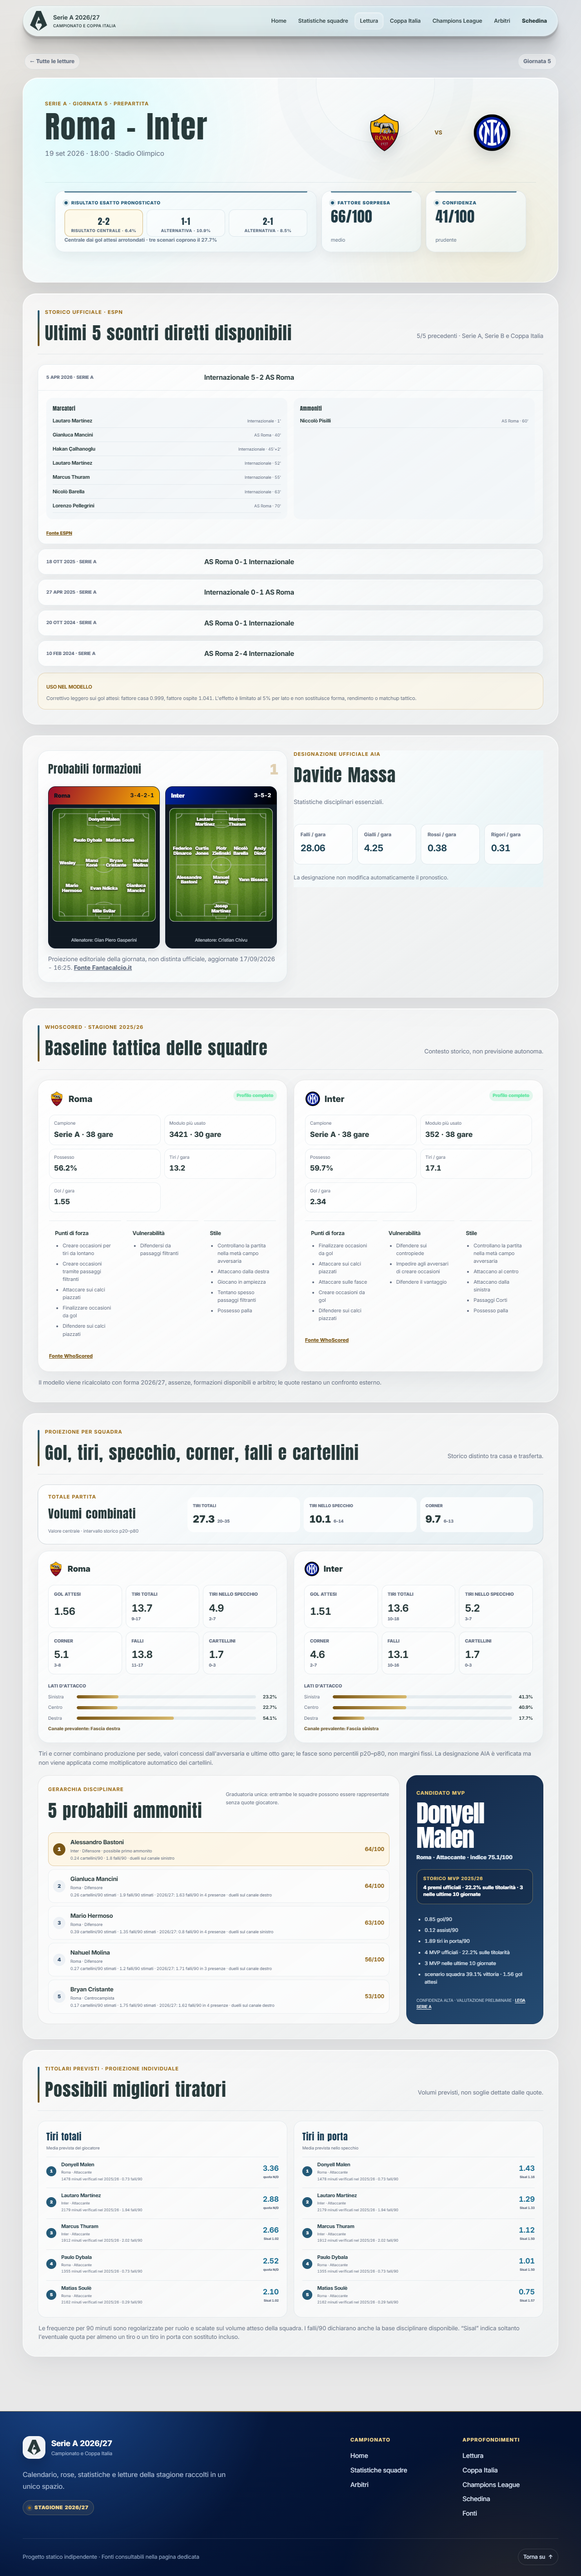
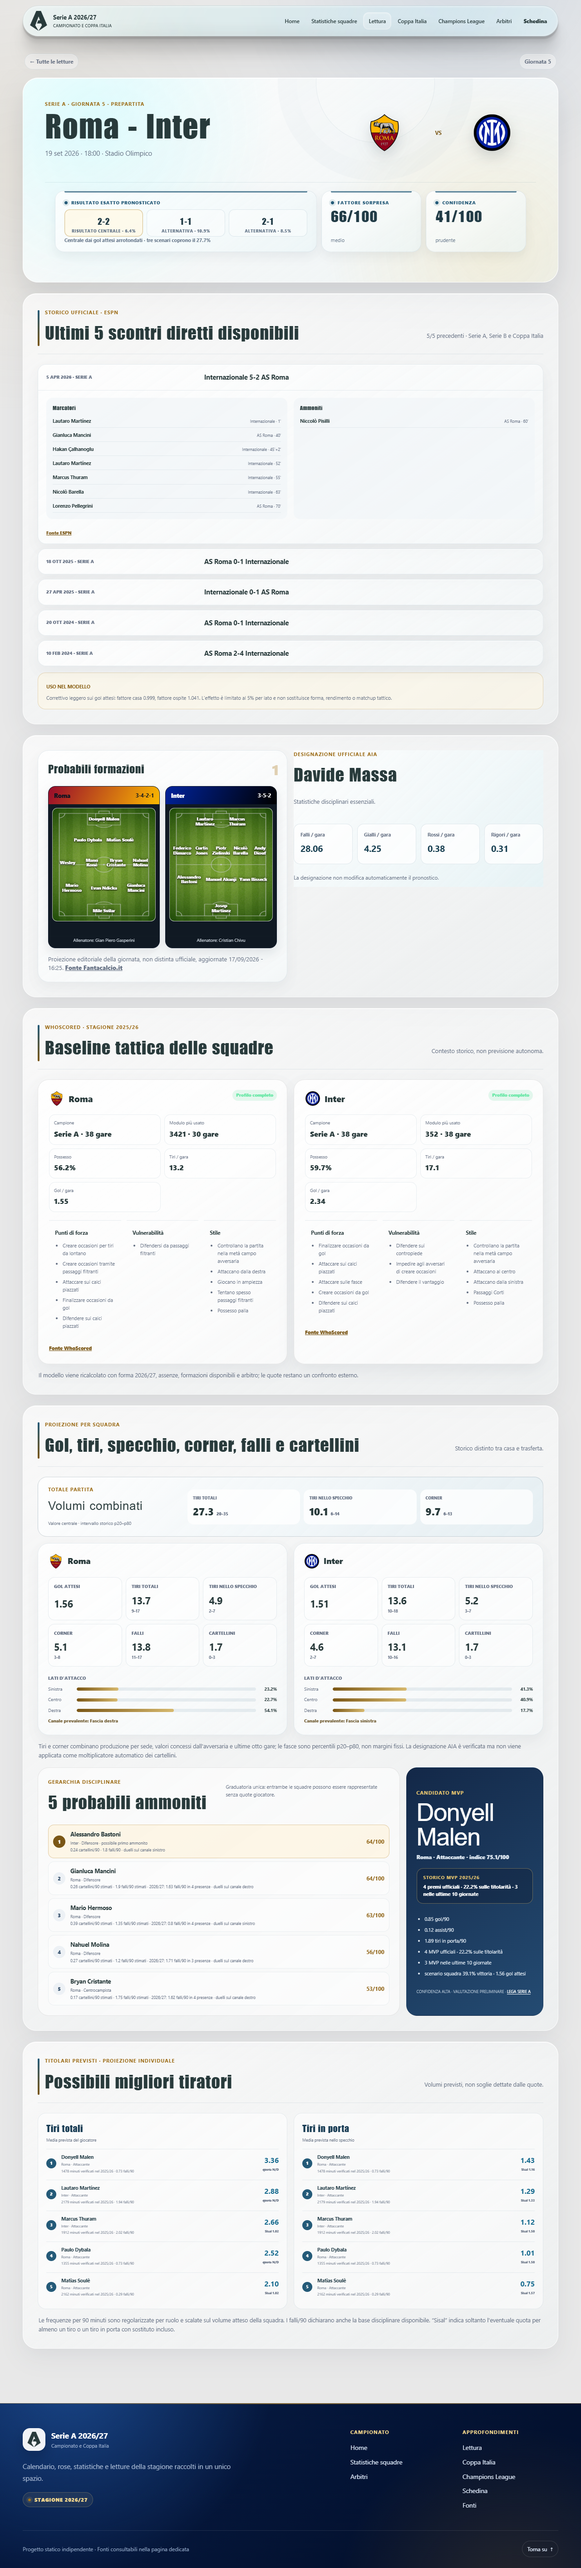
e

diff --git a/schedina.html b/schedina.html
@@ -1,2 +1,2 @@
 <!doctype html>
-<html lang="it"><head><meta charset="utf-8"><meta name="viewport" content="width=device-width,initial-scale=1"><meta name="description" content="Serie A e Coppa Italia 2026/27: Schedina"><title>Schedina | Serie A 2026/27</title><link rel="preconnect" href="https://fonts.googleapis.com"><link rel="preconnect" href="https://fonts.gstatic.com" crossorigin><link href="https://fonts.googleapis.com/css2?family=Anton&family=Inter:ital,opsz,wght@0,14..32,100..900;1,14..32,100..900&display=swap" rel="stylesheet"><link rel="stylesheet" href="css/styles.css?v=20260915-results-md04-complete-v1"></head><body data-page="betting"><header id="site-top" class="site-header"><a class="brand" href="index.html"><span class="brand-mark"><img src="assets/images/serie-a-logo-mark.png" alt=""></span><span><strong>Serie A 2026/27</strong><small>Campionato e Coppa Italia</small></span></a><button class="menu-button" type="button" aria-controls="site-nav" aria-expanded="false">Menu</button><nav id="site-nav" class="site-nav" aria-label="Navigazione principale"><a class="page-link" data-page-link="home" href="index.html">Home</a><a class="page-link" data-page-link="team-stats" href="statistiche-squadre.html">Statistiche squadre</a><a class="page-link" data-page-link="readings" href="lettura.html">Lettura</a><a class="page-link" data-page-link="cup" href="coppa-italia.html">Coppa Italia</a><a class="page-link" data-page-link="champions" href="champions-league.html">Champions League</a><a class="page-link" data-page-link="referees" href="arbitri.html">Arbitri</a><a class="page-link active" data-page-link="betting" href="schedina.html">Schedina</a></nav></header><main id="app" tabindex="-1"><section class="loading"><p class="eyebrow">Caricamento</p><h1>Schedina</h1></section></main><footer class="site-footer"><div class="site-footer-inner"><div class="site-footer-top"><div class="site-footer-intro"><a class="footer-brand" href="index.html"><span class="footer-brand-mark"><img src="assets/images/serie-a-logo-mark.png" alt=""></span><span><strong>Serie A 2026/27</strong><small>Campionato e Coppa Italia</small></span></a><p>Calendario, rose, statistiche e letture della stagione raccolti in un unico spazio.</p><span class="footer-season">Stagione 2026/27</span></div><nav class="footer-nav" aria-label="Navigazione nel footer"><div><strong>Campionato</strong><a href="index.html">Home</a><a href="statistiche-squadre.html">Statistiche squadre</a><a href="arbitri.html">Arbitri</a></div><div><strong>Approfondimenti</strong><a href="lettura.html">Lettura</a><a href="coppa-italia.html">Coppa Italia</a><a href="champions-league.html">Champions League</a><a href="schedina.html">Schedina</a><a href="fonti.html">Fonti</a></div></nav></div><div class="site-footer-bottom"><p>Progetto statico indipendente <span aria-hidden="true">·</span> Fonti consultabili nella pagina dedicata</p><a href="#site-top">Torna su <span aria-hidden="true">↑</span></a></div></div></footer><script type="module" src="js/app.js?v=20260915-results-md04-complete-v1"></script></body></html>
+<html lang="it"><head><meta charset="utf-8"><meta name="viewport" content="width=device-width,initial-scale=1"><meta name="description" content="Serie A e Coppa Italia 2026/27: Schedina"><title>Schedina | Serie A 2026/27</title><link rel="preconnect" href="https://fonts.googleapis.com"><link rel="preconnect" href="https://fonts.gstatic.com" crossorigin><link href="https://fonts.googleapis.com/css2?family=Anton&family=Inter:ital,opsz,wght@0,14..32,100..900;1,14..32,100..900&display=swap" rel="stylesheet"><link rel="stylesheet" href="css/styles.css?v=20260918-md05-mycombo-titles-v1"></head><body data-page="betting"><header id="site-top" class="site-header"><a class="brand" href="index.html"><span class="brand-mark"><img src="assets/images/serie-a-logo-mark.png" alt=""></span><span><strong>Serie A 2026/27</strong><small>Campionato e Coppa Italia</small></span></a><button class="menu-button" type="button" aria-controls="site-nav" aria-expanded="false">Menu</button><nav id="site-nav" class="site-nav" aria-label="Navigazione principale"><a class="page-link" data-page-link="home" href="index.html">Home</a><a class="page-link" data-page-link="team-stats" href="statistiche-squadre.html">Statistiche squadre</a><a class="page-link" data-page-link="readings" href="lettura.html">Lettura</a><a class="page-link" data-page-link="cup" href="coppa-italia.html">Coppa Italia</a><a class="page-link" data-page-link="champions" href="champions-league.html">Champions League</a><a class="page-link" data-page-link="referees" href="arbitri.html">Arbitri</a><a class="page-link active" data-page-link="betting" href="schedina.html">Schedina</a></nav></header><main id="app" tabindex="-1"><section class="loading"><p class="eyebrow">Caricamento</p><h1>Schedina</h1></section></main><footer class="site-footer"><div class="site-footer-inner"><div class="site-footer-top"><div class="site-footer-intro"><a class="footer-brand" href="index.html"><span class="footer-brand-mark"><img src="assets/images/serie-a-logo-mark.png" alt=""></span><span><strong>Serie A 2026/27</strong><small>Campionato e Coppa Italia</small></span></a><p>Calendario, rose, statistiche e letture della stagione raccolti in un unico spazio.</p><span class="footer-season">Stagione 2026/27</span></div><nav class="footer-nav" aria-label="Navigazione nel footer"><div><strong>Campionato</strong><a href="index.html">Home</a><a href="statistiche-squadre.html">Statistiche squadre</a><a href="arbitri.html">Arbitri</a></div><div><strong>Approfondimenti</strong><a href="lettura.html">Lettura</a><a href="coppa-italia.html">Coppa Italia</a><a href="champions-league.html">Champions League</a><a href="schedina.html">Schedina</a><a href="fonti.html">Fonti</a></div></nav></div><div class="site-footer-bottom"><p>Progetto statico indipendente <span aria-hidden="true">·</span> Fonti consultabili nella pagina dedicata</p><a href="#site-top">Torna su <span aria-hidden="true">↑</span></a></div></div></footer><script type="module" src="js/app.js?v=20260918-md05-mycombo-titles-v1"></script></body></html>

diff --git a/js/pages/betting.js b/js/pages/betting.js
@@ -32,7 +32,7 @@ export function createPage(deps){
   function myComboRoundContent(predictions,matchById,teamById){
     const entries=predictions.filter(prediction=>prediction.matchId.endsWith("-md-05")).map(prediction=>({prediction,combo:prediction.combinations?.find(item=>item.tier==="Safe"),match:matchById.get(prediction.matchId)})).filter(item=>item.match&&item.combo?.legs?.length);
     const cards=entries.map(({prediction,combo,match})=>{const home=teamById.get(match.homeTeam)?.name||match.homeTeam,away=teamById.get(match.awayTeam)?.name||match.awayTeam;return `<article class="betting-slip betting-mycombo-card" data-match-id="${esc(match.id)}"><header><div><p>MyCombo · mercati differenti</p><h2>${esc(home)} - ${esc(away)}</h2><small>Quota minima per gamba 1,15</small></div></header><div class="betting-slip-metrics"><div class="betting-slip-total"><span>Quota totale</span><strong>${odds(combo.odds)}</strong><small>${combo.legs.length} mercati distinti</small></div><div><span>Profilo</span><strong>${esc(combo.tier)}</strong></div><div><span>Rischio</span><strong>${esc(combo.risk)}</strong></div></div><ol>${combo.legs.map((leg,index)=>`<li><span class="betting-leg-number">${String(index+1).padStart(2,"0")}</span><div><strong>${esc(leg.market)}</strong><span>${esc(leg.label)}</span></div><b>${odds(leg.odds)}</b></li>`).join("")}</ol><p class="betting-weakest">Nessuna famiglia o macro-scenario è ripetuta nella stessa combinazione.</p></article>`}).join("");
-    return `<section class="betting-mycombo-round" aria-labelledby="betting-mycombo-md05-title"><header class="betting-section-heading"><div><p class="eyebrow">Una per ogni partita</p><h3 id="betting-mycombo-md05-title">MyCombo · 5ª giornata</h3></div><p>Dieci combinazioni con mercati realmente differenti e nessuna quota singola inferiore a 1,15.</p></header><div class="betting-slip-grid">${cards}</div></section>`;
+    return `<section class="betting-mycombo-round" aria-labelledby="betting-mycombo-md05-title"><header class="betting-section-heading"><div><p class="eyebrow">Una per ogni partita</p><h3 id="betting-mycombo-md05-title">MyCombo delle singole partite · 5ª giornata</h3></div><p>Dieci combinazioni visibili, una per gara, con mercati realmente differenti e nessuna quota singola inferiore a 1,15.</p></header><div class="betting-slip-grid">${cards}</div></section>`;
   }
 
   function archiveStats(data,matchById,resolve=leg=>settleLeg(leg,matchById.get(leg.matchId))){
@@ -90,7 +90,7 @@ export function createPage(deps){
       const ordinal=`${number}ª`;
       const description=`Tutte le schedine della ${ordinalWord(number)} giornata, con quote, probabilità, quota equa ed EV consultabili.`;
       const myCombo=number===5?myComboRoundContent(predictionData.predictions||[],matchById,teamById):"";
-      document.querySelector("#app").innerHTML=hero(`Archivio · ${ordinal} giornata`,"Schedine",description)+`<nav class="betting-round-back" aria-label="Navigazione archivio schedine"><a href="schedina.html">← Tutte le giornate</a></nav><section class="betting-round-page" aria-labelledby="betting-round-${String(number).padStart(2,"0")}-title"><header class="betting-round-heading"><p class="eyebrow">Serie A · 2026/27</p><h2 id="betting-round-${String(number).padStart(2,"0")}-title">${ordinal} giornata</h2></header>${roundContent(data,matchById,{showLegend:number===1})}${myCombo}</section>`;
+      document.querySelector("#app").innerHTML=hero(`Archivio · ${ordinal} giornata`,"Schedine",description)+`<nav class="betting-round-back" aria-label="Navigazione archivio schedine"><a href="schedina.html">← Tutte le giornate</a></nav><section class="betting-round-page" aria-labelledby="betting-round-${String(number).padStart(2,"0")}-title"><header class="betting-round-heading"><p class="eyebrow">Serie A · 2026/27</p><h2 id="betting-round-${String(number).padStart(2,"0")}-title">${ordinal} giornata</h2></header>${myCombo}${roundContent(data,matchById,{showLegend:number===1})}</section>`;
       return;
     }
     document.querySelector("#app").innerHTML=hero("Archivio · Stagione 2026/27","Schedina","Le schedine restano raccolte giornata per giornata, con quote, valutazioni ed esiti sempre consultabili.")+`<section class="betting-archive" aria-labelledby="betting-archive-title"><header class="betting-archive-intro"><div><p class="eyebrow">Archivio schedine</p><h2 id="betting-archive-title">Competizioni e giornate</h2></div><p>La prima card blu raccoglie la Champions; seguono le giornate di Serie A.</p></header><div class="betting-archive-list team-directory-grid team-flip-grid">${championsArchiveCard(champions)}${archiveCard(md1,1,matchById)}${archiveCard(md2,2,matchById)}${archiveCard(md3,3,matchById)}${archiveCard(md4,4,matchById)}${archiveCard(md5,5,matchById)}</div></section>`;

diff --git a/scripts/generate-schedina-md02.js b/scripts/generate-schedina-md02.js
@@ -279,11 +279,11 @@ function takePlayers(pool, name, eyebrow, description, offset) {
 
 function automaticMultigoalSlip() {
   return {
-    id: `costellazione-md${matchday}`,
+    id: `multigol-casa-ospite-md${matchday}`,
     type: "single-market-full-round",
     selectionPolicy: { type: "poisson-narrow", quantile: 0.9, maxTeamRangeWidth: 2, minModelProbability: 0.55, minLegOdds: 1.1, maxLegOdds: 1.8 },
     eyebrow: `${matches.length} partite · Multigol casa/ospite`,
-    name: `Costellazione ${suffix}`,
+    name: `Multigol casa/ospite · ${matches.length} partite`,
     description: `Tutta la ${matchday}ª giornata con intervalli casa/ospite stretti, scelti dal modello senza allargare le code per inseguire la quota.`,
     picks: matches.map(match => ({ matchId: match.id, market: "MULTIGOAL CASA + MULTIGOAL OSPITE", variant: "MULTIGOAL CASA + MULTIGOAL OSPITE MULTIESITI 91 ESITI", selection: "AUTO" }))
   };
@@ -323,7 +323,7 @@ function takeCards(pool, index) {
     id: `poker-ammoniti-${index}-md${matchday}`,
     type: "player-cards",
     eyebrow: "4 partite · Papabili ammoniti",
-    name: `Poker ammoniti ${index} · ${suffix}`,
+    name: `Poker ammoniti ${index}`,
     description: "Quattro calciatori differenti, ciascuno scelto in una partita differente sulla base del rischio disciplinare e delle quote Sisal.",
     picks: chosen.map(item => item.pick)
   };
@@ -334,11 +334,11 @@ const playerPool = playerCandidates();
 const cardsPool = cardCandidates();
 console.log(`Candidati Schedina MD${matchdayCode}: ${mixedPool.length} misti · ${playerPool.length} giocatore · ${new Set(playerPool.map(item => item.matchId)).size} gare con giocatori`);
 const slips = [
-  takeMixed(mixedPool, `Scintilla ${suffix}`, "Quota contenuta", "Tre selezioni prudenti, tre famiglie di mercato e quota complessiva nella fascia della Scintilla della prima giornata.", 3, 3, 4, 6),
-  takeMixed(mixedPool, `Bagliore ${suffix}`, "Quota intermedia", "Tre mercati differenti, nessuna selezione Sisal ripetuta e una fascia quota coerente con Bagliore della prima giornata.", 3, 3, 6, 10),
-  takeMixed(mixedPool, `Supernova ${suffix}`, `Tutta la ${matchday}ª giornata`, "Cinque gare e cinque famiglie di mercato, senza aggiunte forzate e con la fascia di rischio della Supernova della prima giornata.", 5, 5, 5, 10),
-  takePlayers(playerPool, `Prisma ${suffix}`, "Marcatori · tiri · tiri in porta", "Otto mercati giocatore su otto gare, limitati ai titolari proiettati con storico sufficiente.", 0),
-  takePlayers(playerPool, `Quasar ${suffix}`, "Mix ad alta intensità", `Secondo portafoglio di otto mercati giocatore senza riutilizzare selezioni già presenti in Prisma ${suffix}.`, 1),
+  takeMixed(mixedPool, "Tre mercati prudenti", "Quota contenuta", "Tre selezioni prudenti appartenenti a tre famiglie di mercato differenti.", 3, 3, 4, 6),
+  takeMixed(mixedPool, "Tre mercati a quota intermedia", "Quota intermedia", "Tre mercati differenti, nessuna selezione Sisal ripetuta e quota complessiva intermedia.", 3, 3, 6, 10),
+  takeMixed(mixedPool, "Cinque mercati · cinque partite", `Tutta la ${matchday}ª giornata`, "Cinque gare e cinque famiglie di mercato, senza aggiunte forzate.", 5, 5, 5, 10),
+  takePlayers(playerPool, "Otto gol, assist e tiri · gruppo 1", "Marcatori · assist · tiri", "Otto mercati giocatore su otto gare, limitati ai titolari proiettati con storico sufficiente.", 0),
+  takePlayers(playerPool, "Otto gol, assist e tiri · gruppo 2", "Marcatori · assist · tiri", "Secondo gruppo di otto mercati giocatore, senza riutilizzare selezioni già presenti nel gruppo 1.", 1),
   automaticMultigoalSlip(),
   takeCards(cardsPool, 1),
   takeCards(cardsPool, 2)
@@ -350,7 +350,7 @@ const output = {
   season: "2026-27",
   matchday,
   title: `Otto schedine, otto letture · ${matchday}ª giornata`,
-  description: "Tre schedine miste, due dedicate ai giocatori, una Multigol casa/ospite e due poker di papabili ammoniti. Non è un elenco di MyCombo per partita: ogni blocco è una schedina autonoma. Quote esterne al modello, quota minima 1,10, nessun esito 12, nessun risultato esatto e nessuna selezione Sisal duplicata.",
+  description: "Tre schedine miste, due dedicate ai giocatori, una Multigol casa/ospite e due poker di papabili ammoniti. Ogni blocco è una schedina autonoma; le MyCombo delle singole partite sono mostrate separatamente nella pagina della giornata. Quote esterne al modello, quota minima 1,10, nessun esito 12, nessun risultato esatto e nessuna selezione Sisal duplicata.",
   slips
 };
 

diff --git a/scripts/test-schedina-md05.js b/scripts/test-schedina-md05.js
@@ -8,6 +8,7 @@ const read = file => JSON.parse(fs.readFileSync(path.join(root, file), "utf8"));
 const data = read("data/normalized/schedina-md05.json");
 const predictions = read("data/normalized/predictions.json").predictions.filter(item => item.matchId.endsWith("-md-05"));
 const source = read("data/sources/mycombo-serie-a-2026-27-md-05.json");
+const renderer = fs.readFileSync(path.join(root, "js/pages/betting.js"), "utf8");
 const legs = data.slips.flatMap(slip => slip.legs);
 
 assert.equal(data.matchday, 5);
@@ -19,6 +20,19 @@ assert(!data.slips.some(slip => ["exact-score", "exact-score-multi"].includes(sl
 assert(!legs.some(leg => /^RISULTATO ESATTO/.test(leg.market)));
 assert.equal(new Set(legs.map(leg => String(leg.providerSelectionId))).size, legs.length);
 assert(legs.every(leg => leg.odds >= 1.10 && leg.selection !== "12" && leg.coherent));
+assert(!data.slips.some(slip => /scintilla|bagliore|supernova|prisma|quasar|costellazione/i.test(`${slip.id} ${slip.name}`)), "Sono rimasti nomi di costellazioni nella Schedina MD05");
+assert.deepEqual(data.slips.map(slip => slip.name), [
+  "Tre mercati prudenti",
+  "Tre mercati a quota intermedia",
+  "Cinque mercati · cinque partite",
+  "Otto gol, assist e tiri · gruppo 1",
+  "Otto gol, assist e tiri · gruppo 2",
+  "Multigol casa/ospite · 10 partite",
+  "Poker ammoniti 1",
+  "Poker ammoniti 2"
+]);
+assert(renderer.includes("MyCombo delle singole partite · 5ª giornata"));
+assert(renderer.indexOf("${myCombo}${roundContent") > renderer.indexOf("const myCombo="), "Le MyCombo devono precedere le schedine nella pagina MD05");
 
 for (const prediction of predictions) {
   const combo = prediction.combinations.find(item => item.tier === "Safe");

diff --git a/scripts/build-site.js b/scripts/build-site.js
@@ -17,7 +17,7 @@ const homeVersion = "20260915-results-md04-complete-v1";
 const calendarVersion = "20260915-results-md04-complete-v1";
 const teamVersion = "20260915-results-md04-complete-v1";
 const leaderboardVersion = "20260915-results-md04-complete-v1";
-const bettingVersion = "20260915-results-md04-complete-v1";
+const bettingVersion = "20260918-md05-mycombo-titles-v1";
 const readingVersion = "20260915-results-md04-complete-v1";
 const cupVersion = "20260908-results-calendar-v1";
 const championsVersion = "20260912-champions-results-v1";
